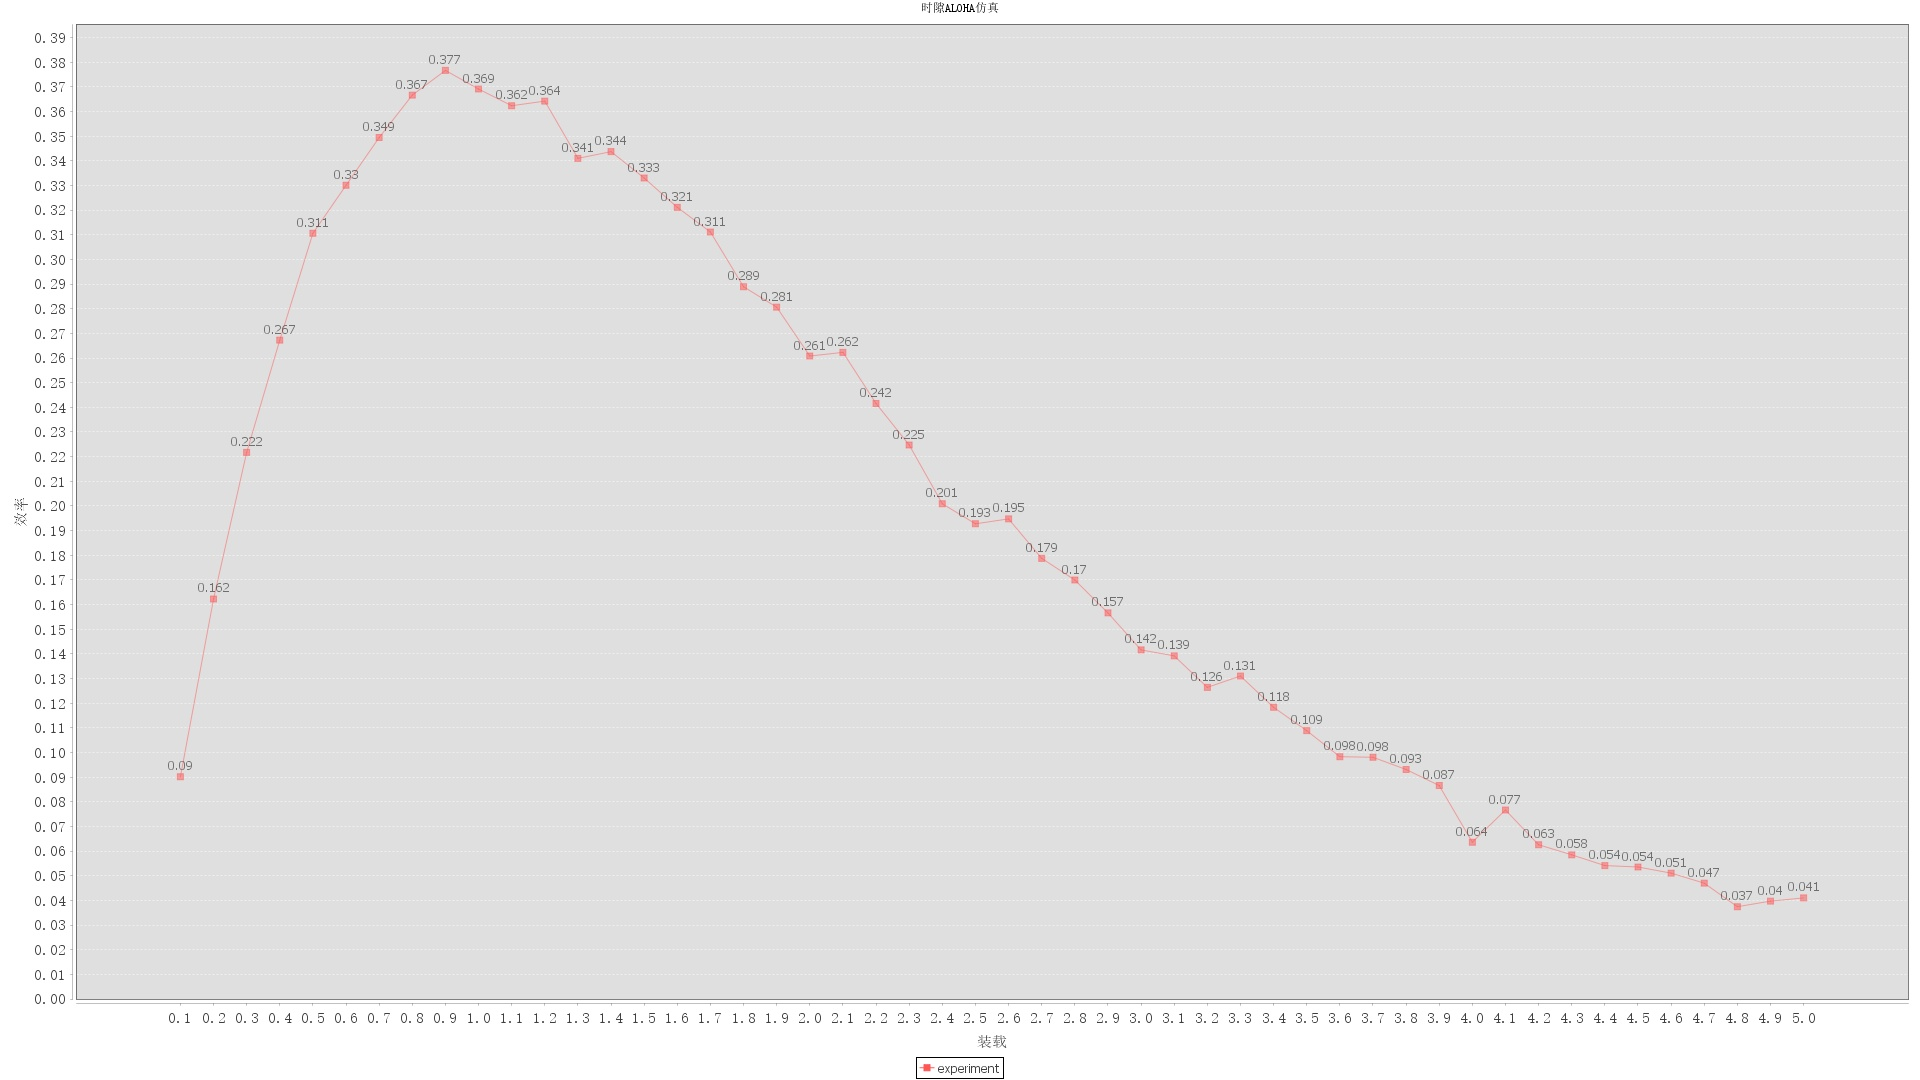
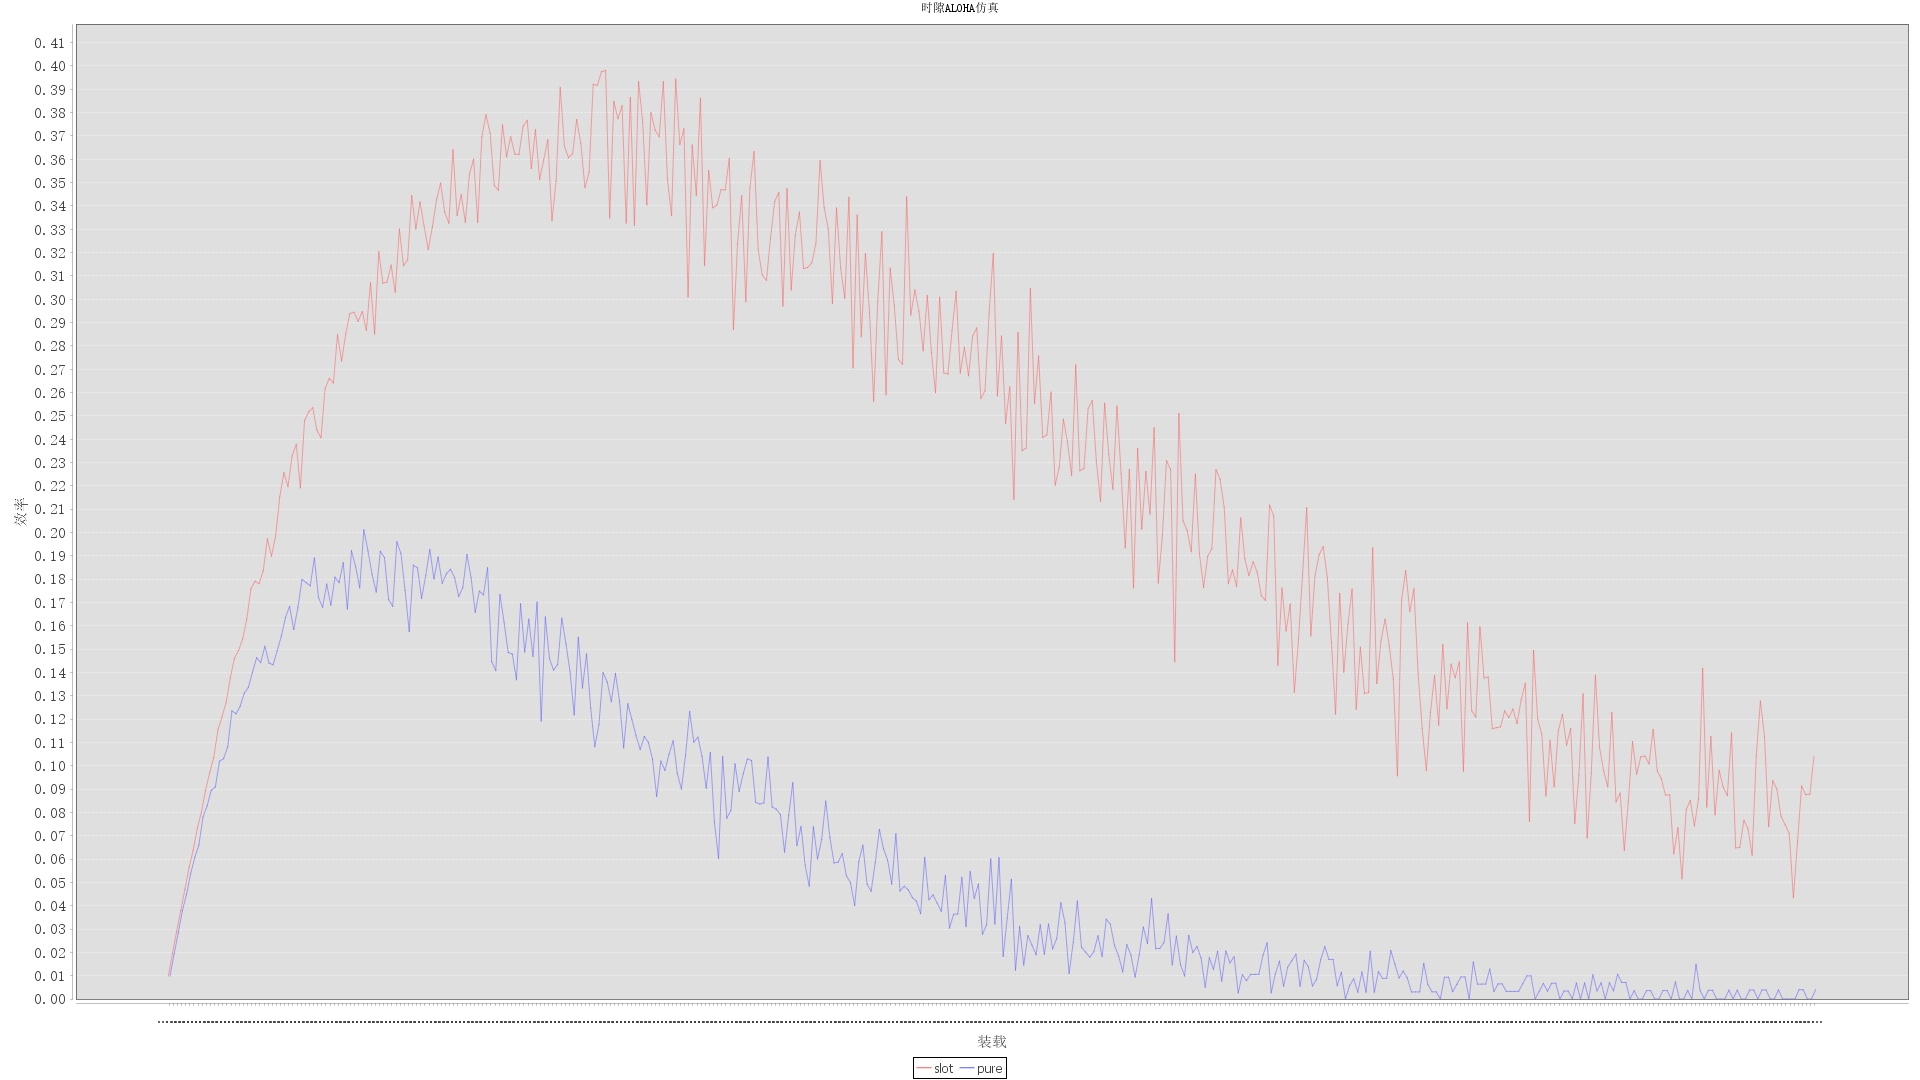
slot把pure 和slot 个表合在了一起

diff --git a/src/Aloha/SlotAlohaGitHub.java b/src/Aloha/SlotAlohaGitHub.java
@@ -18,6 +18,8 @@ import java.io.IOException;
 import java.math.BigDecimal;
 import java.math.RoundingMode;
 import java.util.ArrayList;
+import java.util.HashMap;
+import java.util.Map;
 
 /***
  * @author goatdidi
@@ -27,20 +29,22 @@ public class SlotAlohaGitHub {
 
 
     public static void main(String[] args) {
-        double load = 0.1;
+        double load = 0.01;
         ArrayList<Double> loads = new ArrayList<>();
+        Map<String,Map<Double,ArrayList<Double>>> map = new HashMap<>();
         ArrayList<Double> trough_put = new ArrayList<>();
-        //方法应该全改为static 疏忽了 就不改了
-        SlotAlohaGitHub m = new SlotAlohaGitHub();
-        while (load <= 5) {
+        ArrayList<Double> pure_trough_put = new ArrayList<>();
+        while (load <= 4) {
             loads.add(load);
-            ArrayList<Double> pkts = m.generate_pkts(load, 10000);
-            trough_put.add(m.troughput(pkts, load));
-            load = load + 0.1;
+            ArrayList<Double> pkts = generate_pkts(load, 1000);
+            ArrayList<Double> pure_pkts = generate_pure_pkts(load, 1000);
+            trough_put.add(troughput(pkts, load));
+            pure_trough_put.add(pureTroughput(pure_pkts,load));
+            load = load + 0.01;
             BigDecimal bigDecimal = new BigDecimal(load);
             load = bigDecimal.setScale(2, RoundingMode.HALF_UP).doubleValue();
         }
-        CategoryDataset dataset = Utils.createDoubleDataset(loads, trough_put);
+        CategoryDataset dataset = Utils.createDoubleDataset(loads, trough_put,pure_trough_put);
         JFreeChart freeChart = Utils.createChart(dataset, "时隙ALOHA仿真", "装载", "效率");
         //这里我直接用的绝对路径
         Utils.saveAsFile(freeChart, Utils.jpgFilePath + "\\slotAloha.jpg");
@@ -48,11 +52,11 @@ public class SlotAlohaGitHub {
     }
 
 
-    public double next_interval(double load) {
+    public static double next_interval(double load) {
         return (-1.0 / load) * Math.log(Math.random());
     }
 
-    public ArrayList<Double> generate_pkts(double load, int no_pkts) {
+    public static ArrayList<Double> generate_pkts(double load, int no_pkts) {
         double time = 0;
         ArrayList<Double> pkts = new ArrayList<>();
         for (int i = 0; i < no_pkts; i++) {
@@ -61,51 +65,35 @@ public class SlotAlohaGitHub {
         }
         return pkts;
     }
-
-    public double troughput(ArrayList<Double> pkts, double load) {
+    public static ArrayList<Double> generate_pure_pkts(double load, int no_pkts) {
+        double time = 0;
+        ArrayList<Double> pkts = new ArrayList<>();
+        for (int i = 0; i < no_pkts; i++) {
+            time += next_interval(load);
+            pkts.add(time);
+        }
+        return pkts;
+    }
+    public static double troughput(ArrayList<Double> pkts, double load) {
         double success = 0.0;
         for (int i = 1; i < pkts.size() - 1; i++) {
-            double fail = 0.0;
-            if (!pkts.get(i).equals(pkts.get(i - 1)) && !pkts.get(i + 1).equals(pkts.get(i))) {
+            if (!pkts.get(i).equals(pkts.get(i + 1)) && !pkts.get(i - 1).equals(pkts.get(i))) {
                 success = success + 1;
             }
         }
         return (success / pkts.size()) * load;
     }
-
-    public static JFreeChart createChart(CategoryDataset categoryDataset) {
-        // 创建JFreeChart对象：ChartFactory.createLineChart
-        JFreeChart jfreechart = ChartFactory.createLineChart("slotted aloha仿真", // 标题
-                "装载", // categoryAxisLabel （category轴，横轴，X轴标签）
-                "传输数量", // valueAxisLabel（value轴，纵轴，Y轴的标签）
-                categoryDataset, // dataset
-                PlotOrientation.VERTICAL, true, // legend
-                false, // tooltips
-                false); // URLs
-        // 使用CategoryPlot设置各种参数。以下设置可以省略。
-        CategoryPlot plot = (CategoryPlot) jfreechart.getPlot();
-        // 背景色 透明度
-        plot.setBackgroundAlpha(0.5f);
-        // 前景色 透明度
-        plot.setForegroundAlpha(0.5f);
-        // 其他设置 参考 CategoryPlot类
-        LineAndShapeRenderer renderer = (LineAndShapeRenderer) plot.getRenderer();
-        renderer.setBaseShapesVisible(true); // series 点（即数据点）可见
-        renderer.setBaseLinesVisible(true); // series 点（即数据点）间有连线可见
-        renderer.setUseSeriesOffset(true); // 设置偏移量
-        renderer.setBaseItemLabelGenerator(new StandardCategoryItemLabelGenerator());
-        renderer.setBaseItemLabelsVisible(true);
-        return jfreechart;
-    }
-
-    public static CategoryDataset createDataset(ArrayList<Double> loads, ArrayList<Double> trough_put) {
-        DefaultCategoryDataset defaultcategorydataset = new DefaultCategoryDataset();
-        for (int i = 0; i < loads.size(); i++) {
-            defaultcategorydataset.addValue(trough_put.get(i), "experiment", loads.get(i));
+    public static double pureTroughput(ArrayList<Double> pkts, double load) {
+        double success =0;
+        for (int i = 0; i < pkts.size(); i++) {
+            if ((i == 0 &&(pkts.get(i + 1) - pkts.get(i)) > 1 )||(i == pkts.size()-1 &&(pkts.get(i) - pkts.get(i - 1)) > 1)){
+                success++;
+            }
+            if(i != 0 && i != pkts.size()-1 &&(pkts.get(i) - pkts.get(i - 1)) > 1 && (pkts.get(i + 1) - pkts.get(i)) > 1) {
+                success ++;
+            }
         }
-        return defaultcategorydataset;
+        return (success / pkts.size()) * load;
     }
-
-
 }
 

diff --git a/src/Utils/Utils.java b/src/Utils/Utils.java
@@ -18,7 +18,7 @@ import java.util.*;
 import java.util.List;
 
 public class Utils {
-    public static String jpgFilePath = "D:\\研究生时期\\rfid_test\\RFID\\jpg";
+    public static String jpgFilePath = "D:\\project\\RFID\\jpg";
 
     public static List<String> createTags(int dataSize, int tagSize) {
         Set<String> tags = new HashSet<>();
@@ -93,12 +93,15 @@ public class Utils {
         // 前景色 透明度
         plot.setForegroundAlpha(0.5f);
         // 其他设置 参考 CategoryPlot类
+
+        //折现对象
         LineAndShapeRenderer renderer = (LineAndShapeRenderer) plot.getRenderer();
-        renderer.setBaseShapesVisible(true); // series 点（即数据点）可见
+        renderer.setBaseShapesVisible(false); // series 点（即数据点）可见
         renderer.setBaseLinesVisible(true); // series 点（即数据点）间有连线可见
         renderer.setUseSeriesOffset(true); // 设置偏移量
         renderer.setBaseItemLabelGenerator(new StandardCategoryItemLabelGenerator());
-        renderer.setBaseItemLabelsVisible(true);
+        renderer.setBaseItemLabelsVisible(false); //设置每条折现上是否显示数值
+        renderer.setSeriesOutlineStroke(0,new BasicStroke(0.2F));
         return jfreechart;
     }
 
@@ -115,6 +118,14 @@ public class Utils {
         DefaultCategoryDataset defaultcategorydataset = new DefaultCategoryDataset();
         for (int i = 0; i < loads.size(); i++) {
             defaultcategorydataset.addValue(trough_put.get(i), "experiment", loads.get(i));
+        }
+        return defaultcategorydataset;
+    }
+    public static CategoryDataset createDoubleDataset(List<Double> loads, List<Double> trough_put,List<Double> pure_trough_put) {
+        DefaultCategoryDataset defaultcategorydataset = new DefaultCategoryDataset();
+        for (int i = 0; i < loads.size(); i++) {
+            defaultcategorydataset.addValue(trough_put.get(i), "slot", loads.get(i));
+            defaultcategorydataset.addValue(pure_trough_put.get(i), "pure", loads.get(i));
         }
         return defaultcategorydataset;
     }

diff --git a/src/Aloha/PureAloha.java b/src/Aloha/PureAloha.java
@@ -6,6 +6,8 @@ import org.jfree.data.category.CategoryDataset;
 //import sun.tools.jconsole.Plotter;
 
 import javax.swing.*;
+import java.math.BigDecimal;
+import java.math.RoundingMode;
 import java.util.ArrayList;
 import java.util.List;
 
@@ -19,13 +21,13 @@ public class PureAloha extends JFrame {
         double load = 0.1;
         List<Double> loads = new ArrayList<>();
         List<Double> through_put = new ArrayList<>();
-        int i = 0;
         while (load <= 5) {
             loads.add(load);
             ArrayList<Double> pkts = generate_pkts(load, 10000);
             through_put.add(troughput(pkts, load));
             load = load + 0.1;
-            i = i + 1;
+            BigDecimal bigDecimal = new BigDecimal(load);
+            load = bigDecimal.setScale(2, RoundingMode.HALF_UP).doubleValue();
         }
         CategoryDataset dataset = Utils.createDoubleDataset(loads, through_put);
         JFreeChart freeChart = Utils.createChart(dataset, "纯ALOHA仿真", "装载", "效率");

diff --git a/src/Test/test.java b/src/Test/test.java
@@ -1,0 +1,9 @@
+package Test;
+
+public class test {
+    public static void main(String[] args) {
+        for (int i = 0; i < 130; i++) {
+            System.out.println((-1.0 / 0.2) * Math.log(Math.random()));
+        }
+    }
+}
